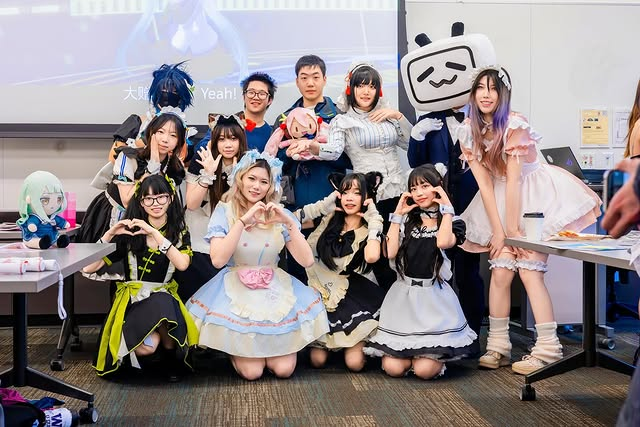
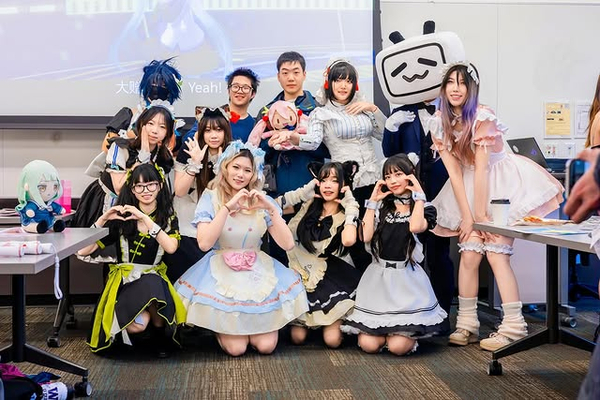
Add past events for Spring Festival and Arknights gathering
- Add Spring Festival 2026 and Arknights Columbia-themed Gathering to PAST_EVENTS
- Standardize location format to include "University of Washington"
- Resize event images for Maid Cafe and Live House
- Remove unused resize_images.py script

Changed region(s): [[0.0, 0.51, 0.03, 0.54]]

diff --git a/app/constants.ts b/app/constants.ts
@@ -191,12 +191,34 @@ export interface PastEvent {
 
 export const PAST_EVENTS: PastEvent[] = [
     {
+        badge: 'Festival',
+        badgeCn: "节日",
+        title: 'Sekai Beyond x HCCA: Spring Festival 2026',
+        titleCn: '彼世界 x 汉承: 2026 拜年纪',
+        date: '2026-2-14',
+        location: 'HUB Lyceum, University of Washington',
+        description: 'Sekai Beyond teamed up with HCCA for a Spring Festival celebration where tradition met pop culture. The evening featured stunning traditional Chinese dance performances, a beautiful clothing showcase with hanfu available to try on, and classic traditional games between acts. More than just a celebration, it was a reunion of hearts and a moment where heritage and imagination intertwined.',
+        descriptionCn: '彼世界动漫社携手汉承文化社，共同呈献了一场传统与流行文化交融的新春盛典。当旧岁温柔退场、新年翩然而至，大家齐聚一堂，满怀对过往的感恩与对未来的期盼。活动中精彩纷呈的传统舞蹈表演令人目不暇接，还有华美的服饰展示和汉服试穿体验，表演间隙更有趣味十足的传统游戏。这不仅是一场庆祝，更是一次心灵的重逢、文化的交汇，让传统与想象在此刻交织。',
+        icon: '/images/events/sekai_beyond_fest_2026.jpg',
+    },
+    {
+        badge: 'Gaming',
+        badgeCn: "游戏",
+        title: 'Arknights: Columbia-themed Gathering',
+        titleCn: '明日方舟: 哥伦比亚主题活动',
+        date: '2026-1-24',
+        location: 'Spratlen Hall 311 & 313, University of Washington',
+        description: 'An unofficial Arknights gathering organized by ACGN Club and UW students to bring Doktahs together for an evening of fun. Activities included a roguelike competition, board games, a socializing corner, and trivia challenges—giving Doktahs from all walks of life a chance to bond over their shared love for Terra.',
+        descriptionCn: '由ACGN动漫社和UW的博士们自发组织的明日方舟哥伦比亚主题聚会活动。本次聚会为大家带来了各种有趣的活动，包括肉鸽比赛、桌游、交友角、竞猜答题等，让来自各地的博士们在泰拉的旗帜下结识彼此，共赴一场属于博士们的欢聚。',
+        icon: '/images/events/arknights_only_2026.jpg',
+    },
+    {
         badge: 'Cosplay',
         badgeCn: "角色扮演",
         title: 'Halloween Party 2025',
         titleCn: '万圣节晚会 2025',
         date: '2025-10-31',
-        location: 'McMahon Hall Pompeii Room',
+        location: 'McMahon Hall Pompeii Room, University of Washington',
         description: 'A spooky night of anime‑inspired Halloween fun! Members dressed up as their favorite characters, played mini games with Halloween twists, and celebrated the season together. From creative cosplay to themed activities, everyone enjoyed treats, tricks, and plenty of photo ops in a festive atmosphere.',
         descriptionCn: '充满动漫元素的万圣节派对！成员们装扮成自己最喜爱的角色，参与带有万圣节元素的迷你游戏，一起庆祝这个欢乐的节日。从创意角色扮演到主题活动，每个人都享受了糖果、惊喜以及大量的合影机会，度过了一个充满节日气氛的夜晚。',
         icon: '/images/events/halloween_2025.jpg',
@@ -251,7 +273,7 @@ export const PAST_EVENTS: PastEvent[] = [
         title: 'Sekai Beyond Live House',
         titleCn: '彼世界音乐节',
         date: '2025-5-6',
-        location: "UW Ethnic Cultural Theater",
+        location: 'Ethnic Cultural Theater, University of Washington',
         description: 'A high‑energy night of J‑pop, anisong, and indie sets from local and guest artists. From nostalgic anime themes to fresh Vocaloid covers, the crowd sang, waved, and cheered straight through the encore.',
         descriptionCn: '充满活力的J-pop、动漫歌曲和独立音乐表演之夜，汇集本地和特邀艺术家。从怀旧动漫经典到前沿Vocaloid曲目，这场音乐节以激情四射的演出展现了日本音乐文化的多样性，让观众热情高涨直至最后的安可。',
         icon: '/images/events/Sekai_Beyond_Live_House_2025.jpg',
